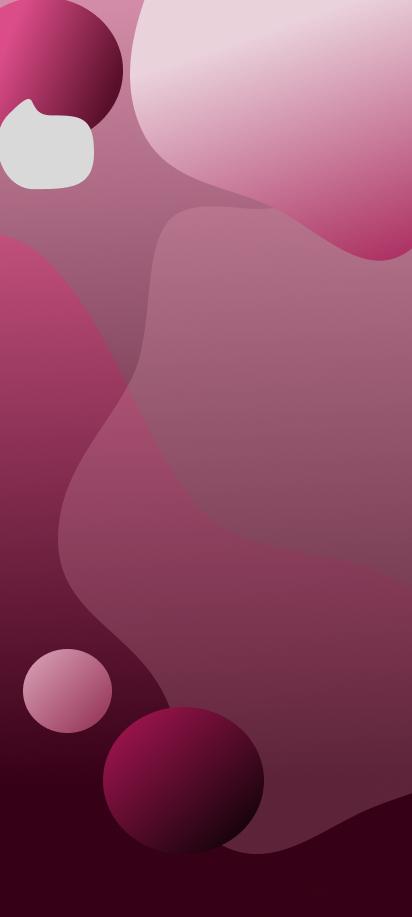
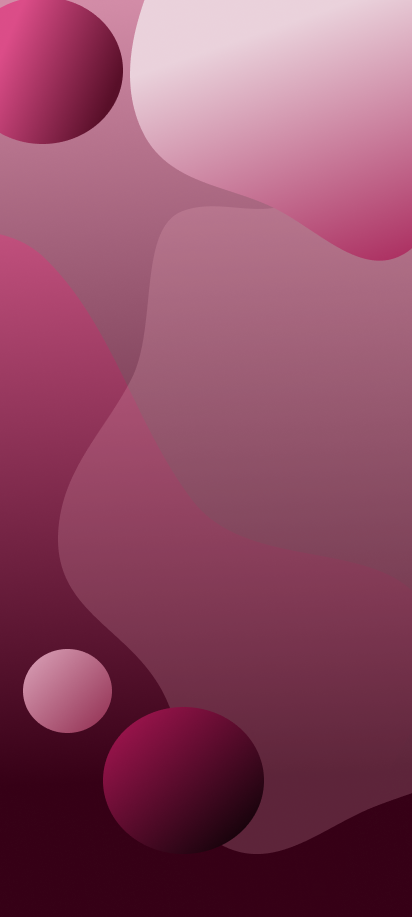
Bg Image added in HomePage[responsive version]

Changed region(s): [[0.0, 0.0916, 0.233, 0.2137]]

diff --git a/src/pages/HomePage_Mobile/HomePage_Mobile.jsx b/src/pages/HomePage_Mobile/HomePage_Mobile.jsx
@@ -1,10 +1,15 @@
 import React from 'react'
 import NavbarMobile from '../../Components/HomePageMobileComponents/NavbarMobile'
 import FooterMobile from '../../Components/HomePageMobileComponents/FooterMobile'
+import bg_pic_Home_page_mobile from '../../assets/Images/bg_pic_Home_page_mobile.png'
+ 
+
 
 const HomePage_Mobile = () => {
   return (
-    <div className='flex flex-col min-h-screen'>
+    <div 
+    style={{ backgroundImage: `url(${bg_pic_Home_page_mobile})` }}
+    className='flex flex-col min-h-screen bg-cover bg-center'>
       <NavbarMobile />
       <div className='flex-grow' />
       <FooterMobile />
